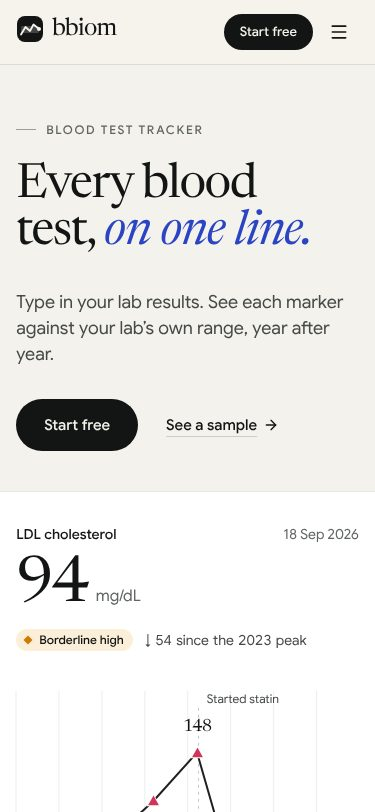
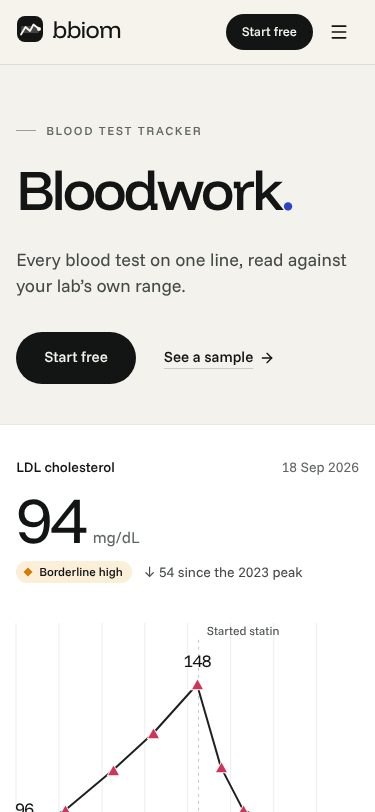
Record the type change in the brief and refresh the after screenshots
Claude-Session: https://claude.ai/code/session_019aK6vW3e4mMzY4WmkATpVx

diff --git a/design-notes.md b/design-notes.md
@@ -21,7 +21,7 @@ We captured six sites at desktop and mobile widths on 15 Nov 2026: WHOOP, Superp
 
 ## The direction
 
-**A lab report set by a good typographer.** The primary reference is Function Health, for its editorial serif on warm paper and its two-voice headings. We take one move from Levels: the product's own line is the hero image.
+**A lab report set by a good typographer.** The primary reference is Function Health, for its editorial calm on warm paper. We take one move from Levels: the product's own line is the hero image. Titles are a single word in a contemporary display grotesk, closed by a cobalt full stop.
 
 We are not averaging the references. Specifically:
 
@@ -31,20 +31,22 @@ We are not averaging the references. Specifically:
 
 ### Why this direction suits bbiom
 
-People open bbiom with a printout in hand, usually before or after an appointment. The page should feel like a calmer, clearer version of that printout: serif readings, ruled rows, hairlines and tabular figures. Most performance-wearable sites use loud grotesk faces and dark video, which signal effort and optimisation. A serif on paper signals a record you can trust.
+People open bbiom with a printout in hand, usually before or after an appointment. The page should feel like a calmer, clearer version of that printout: big readings, ruled rows, hairlines and tabular figures. Performance-wearable sites pair loud type with dark video, which signals effort and optimisation. One-word titles on paper, with the product's own data doing the talking, signal a record you can trust.
 
 ## Tokens
 
 - **Colour:**
   - Paper canvas `#F4F2EC`. White `#FFFFFF` for charts, tables and product panels.
   - Ink `#121513`, with `#454A47` for body copy (8:1) and `#616662` for metadata (4.9:1 on the canvas).
-  - Cobalt `#2B44C4` for links, focus, the active item, one italic phrase per heading and the closing band.
+  - Cobalt `#2B44C4` for links, focus, the active item, the full stop that closes each display title, and the closing band.
   - The status triad (`#0A8F6C` in range, `#D07C00` borderline, `#D1345B` out) is unchanged. It is used for data only, and every status also has its own shape and label.
   - Ink sections use `data-theme="dark"`, where every token, including the status hues, is re-stepped for the dark surface.
 - **Type:**
-  - Display: Newsreader with optical sizes, weight 400, sentence case. An italic second phrase is the page's second voice.
-  - Body and UI: Google Sans. Units and columns use tabular figures.
-  - Scale, fluid from 375px to 1440px: `display-xl` 48→116px, `display-l` 38→76px, `display-m` 30→48px, `display-s` 24→32px, `lede` 18→22px. Body text is 15–16px, and nothing is smaller than 12px.
+  - Display: Funnel Display (2024), weight 500 for titles and 400 for big readings, upright, tight tracking. Marketing titles are one word, closed by a cobalt full stop (`<Dot />`).
+  - Body and UI: Funnel Sans, the display face's text companion. Units and columns use tabular figures.
+  - No italics anywhere, and none are loaded.
+  - Scale, fluid from 375px to 1440px: `display-xl` 56→144px, `display-l` 44→92px, `display-m` 36→64px, `display-s` 24→32px, `lede` 18→22px. Body text is 15–16px, and nothing is smaller than 12px.
+  - Why Funnel: we compared it with Host Grotesk, Bricolage Grotesque, Mona Sans, Instrument Sans and Geist. Funnel had the most distinct letterforms at display size and still reads cleanly in UI text; Geist and Host read as generic, and Bricolage is overused.
 - **Spacing:** a 4px base. Sections use `--space-section` (80→152px) and the grid gutter is `--gutter` (16→40px). The container is 1360px with a 12-column grid.
 - **Radii:** inputs 10px, cards 16px, panels 22px, and every button and nav item is a pill.
 - **Shadows:** hairlines carry structure. There is one soft `--shadow-panel` for a product screen lifted off the page, and `--shadow-pop` for tooltips and menus.
@@ -66,9 +68,9 @@ People open bbiom with a printout in hand, usually before or after an appointmen
 
 ## Rules that keep it from going generic
 
-1. **One claim per section** and at most one line under it. Copy says only what the product does today.
+1. **One word per title** ("Bloodwork.", "Trends.", "Pricing."). The kicker above sets the context and at most one line goes below. Copy says only what the product does today.
 2. **No three-card rows.** Use asymmetric splits (7/5 or 5/7), rules and tables instead.
 3. **Status is the only vivid colour on data,** and it always comes with a shape and a word.
 4. **Charts sit on white,** never on the canvas tone or a wash.
-5. **Italic is a voice, not decoration:** one phrase per heading at most.
+5. **No italics.** Emphasis comes from size and the cobalt full stop, never a slanted voice.
 6. **No fake browser chrome or phone frames.** Product panels are real components on a white panel.

diff --git a/CLAUDE.md b/CLAUDE.md
@@ -17,27 +17,29 @@ and quiet confidence, never alarm.
 
 ### Aesthetic Direction
 **"The well-kept record": a lab report set by a good typographer.** Warm paper,
-near-black ink, an editorial serif for headings and big readings, a clean sans
-for everything else, one cobalt accent. The primary reference is Function
-Health's editorial serif on paper; from Levels we take the product's own line
-as the hero image. Product-led: every marketing picture is the real app
+near-black ink, one-word titles in a contemporary display grotesk closed by a
+cobalt full stop, a clean companion sans for everything else, no italics. The
+primary reference is Function Health's editorial calm on paper; from Levels we
+take the product's own line as the hero image. Product-led: every marketing picture is the real app
 component (or a chart drawn from the same data) over the sample profile, and
 the same screens are public at `/demo`. Full brief: `design-notes.md`.
 
 - **Colour is rationed.** Paper canvas `#F4F2EC`; white `#FFFFFF` for charts,
   tables and product panels; ink `#121513` (body `#454A47`, metadata
   `#616662`). **One accent, cobalt `#2B44C4`**: links, focus, the active item,
-  one italic phrase per heading, the closing band. No gradients, no artwork,
+  the full stop after each display title (`<Dot />`, `.stop`), the closing band. No gradients, no artwork,
   no glass. Ink sections use `data-theme="dark"` (every token re-stepped).
 - **Status colours stay reserved for data** — in range `#0A8F6C`, borderline
   `#D07C00`, out `#D1345B` (validated for colour-blind separation and ≥3:1 on
   white) — and status is **never colour alone**: each state has its own shape
   (dot / diamond / arrow up or down / hollow ring) and a plain label. The
   cobalt accent is never a data mark. Charts and tables sit on white.
-- **Type.** Display: Newsreader (optical sizes), weight 400, sentence case,
-  `.display` / `.figure`; one phrase per heading may be italic (`<em>`) — the
-  second voice. Body and UI: Google Sans, tabular figures in columns. Scale
-  tokens: `text-display-xl|l|m|s`, `text-lede` (fluid 375→1440px). **All UI
+- **Type.** Display: Funnel Display, weight 500 for titles (`.display`) and
+  400 for big readings (`.figure`), upright. **Marketing titles are one word**
+  with a cobalt full stop ("Bloodwork.", "Trends."); context goes in the
+  kicker above, one line below. Body and UI: Funnel Sans, tabular figures in
+  columns. **No italics anywhere.** Scale tokens: `text-display-xl|l|m|s`,
+  `text-lede` (fluid 375→1440px). **All UI
   text — nav, buttons, labels — is sentence-case sans, 12px minimum.** The
   only uppercase is the small `.eyebrow` kicker (sans, tracked, with a rule).
 - **Layout.** 1360px container, 12-column grid (`GRID`), `--gutter`,
@@ -54,7 +56,7 @@ the same screens are public at `/demo`. Full brief: `design-notes.md`.
   wipe), `.m-arc` (ring segments), `.m-grow` (bars), range-bar dots sliding to
   their value, `CountUp` figures — each staggered with `--d`.
 
-**Anti-references:** gradients of any kind, painted artwork or glass panels,
+**Anti-references:** italics, multi-phrase marketing titles, gradients of any kind, painted artwork or glass panels,
 a second accent hue, AI-purple meshes, flat single-colour hero blocks, bold
 display headlines, decorative use of status colours, uppercase buttons and
 nav, tiny (<12px) labels, pure `#000`/`#fff` page surfaces, stock photos of

diff --git a/PROJECT_CONTEXT.md b/PROJECT_CONTEXT.md
@@ -4,7 +4,7 @@ Personal lab-test history tracker as hosted SaaS. Specs: `~/Downloads/PRD-health
 
 ## Status (2026-07-13)
 S1–S4 code-complete, built locally, NOT deployed. Verified: build/lint/tsc clean, 28/28 domain vitest, RLS tests pass on local Supabase stack, live E2E smoke (auth redirect, magic link, onboarding, dashboard trend/range flags, export gates, webhook signature rejection, security headers).
-Design (2026-11-15, redesign): "The well-kept record" replaces "Clear chart" — warm paper, Newsreader serif display + Google Sans, one cobalt accent, no gradients or artwork; reasoning in `design-notes.md`, rules in CLAUDE.md Design Context, marketing components in `src/components/site/`.
+Design (2026-11-15, redesign): "The well-kept record" replaces "Clear chart" — warm paper, one-word Funnel Display titles + Funnel Sans, one cobalt accent, no italics, gradients or artwork; reasoning in `design-notes.md`, rules in CLAUDE.md Design Context, marketing components in `src/components/site/`.
 Design (2026-11-14, full redesign): "Clear chart" system replaces Alethia everywhere — see CLAUDE.md Design Context. Product-led landing built from real app components over sample data; public read-only sample dashboard at `/demo` (closes the §9.6 demo-fixture gap); app shell with desktop sidebar + mobile tab bar; overview leads with "N of M in range", attention cards, body-system cards. Product screens are shared views (`src/components/views/`) rendered by `/app` and `/demo` through `ViewCtx`. Status = shape + label + colour (validated palette). Custom SVG charts only; `recharts` and `motion` dependencies removed. Gradient pass (same day, user-directed from Superpower + painterly split-hero references): one evergreen→orange gradient family as painted artwork (`public/art`, generator in `scripts/art`), frosted-glass product cards on it, soft washes, pill buttons. Screenshot-verified at 1440px and 390px.
 
 ## Stack
